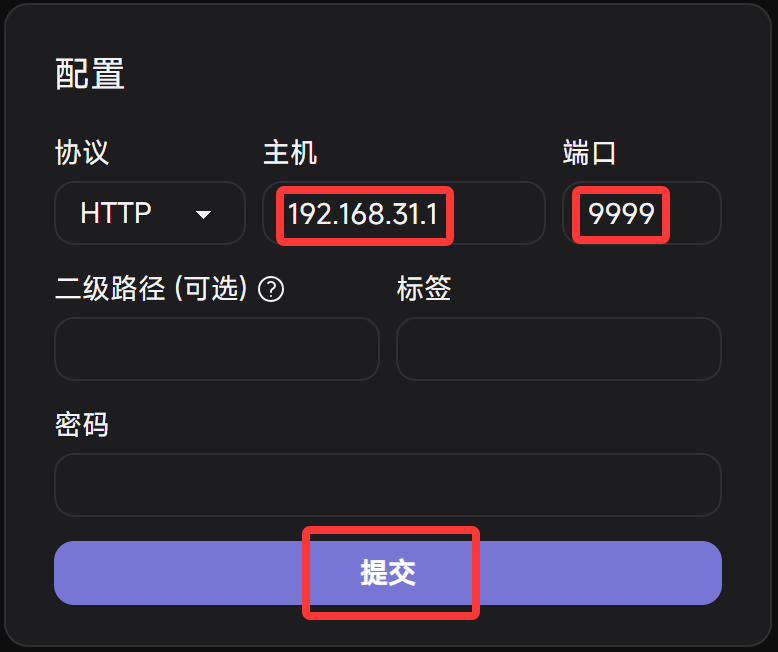
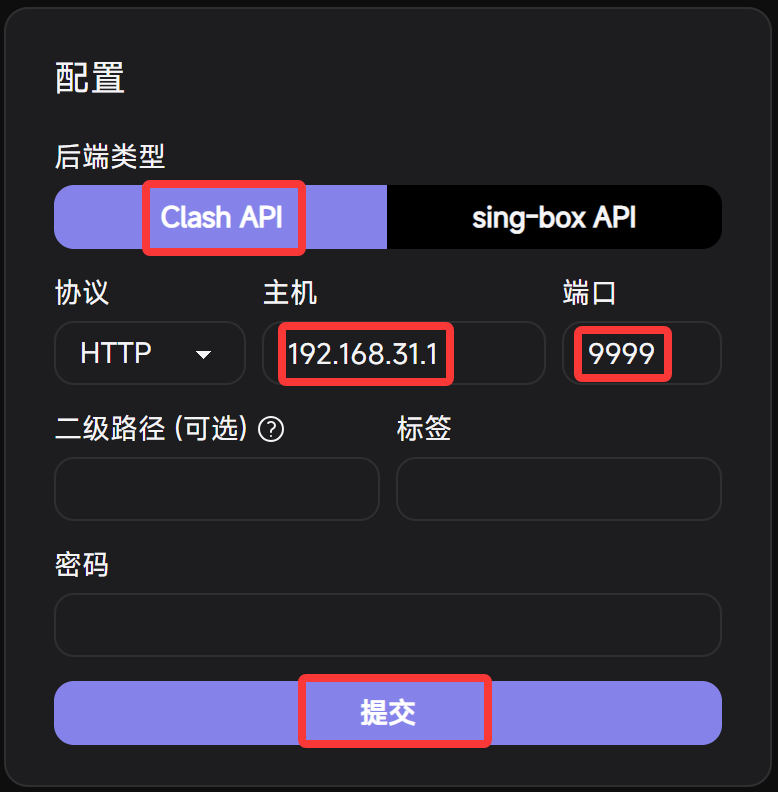
统一面板端口，方便管理

diff --git a/_posts/2024-08-22-share-shellcrashadguardhome-singboxr-ruleset.md b/_posts/2024-08-22-share-shellcrashadguardhome-singboxr-ruleset.md
@@ -367,7 +367,7 @@ sc
     {
       "type": "api",
       "listen": "::",
-      "listen_port": 9090,
+      "listen_port": 9999,
       "secret": "",
       "access_control_allow_private_network": true
     }
@@ -388,7 +388,7 @@ sc
       "store_fakeip": true
     },
     "clash_api": {
-      "external_controller": "0.0.0.0:9999",
+      "external_controller": "0.0.0.0:9090",
       "secret": "",
       "access_control_allow_private_network": true
     },
@@ -413,7 +413,8 @@ sc
 3. 进入 2) DNS 设置 → 9) 修改 DNS 服务器，设置如下：  
 <img src="/assets/img/dns/dns-null.png" alt="设置部分 2" width="60%" />
 
-4. 连接 SSH 后执行如下命令：
+4. 进入 2) 功能设置 → 6) 自定义端口及密钥 → 5) 修改面板访问端口，修改为 `9090`
+5. 连接 SSH 后执行如下命令：
 ```shell
 sed -i 's/"ip_accept_any": true,/"preferred_by": [ "hosts" ],/' "$CRASHDIR/starts/singbox_modify.sh"
 sed -i '/#生成experimental.json/i\
@@ -436,15 +437,7 @@ EOF
 sed -i 's/log dns ntp certificate experimental/log dns ntp certificate http_clients experimental/' "$CRASHDIR/starts/singbox_modify.sh"
 sed -i 's/log dns ntp certificate experimental/log dns ntp certificate http_clients experimental/' "$CRASHDIR/menus/override.sh"
 ```
-5. 访问在线 Dashboard 面板
-  - ① 打开 zashboard 在线面板地址 <http://board.zash.run.place>，在“[Clash API](https://sing-boxr.dustinwin.us.kg/zh/configuration/experimental/clash-api/)”标签的“主机”内输入 `192.168.31.1`，“端口”内输入 `9999`，点击“提交”即可访问 Dashboard
-  - ② 进入设置 → 后端设置，点击“+”图标，切换到“[sing-box API](https://sing-boxr.dustinwin.us.kg/zh/configuration/service/api/)”标签，“主机”内输入 `192.168.31.1`，点击“提交”
-  - ③ 通过切换后端配置可以分别使用 Clash API（支持“代理提供商”和“规则提供商”的更新）和 sing-box API Dashboard 面板
 
-> 推荐设置
-{: .prompt-tip }
-1. 进入 zashboard → 代理 → 代理设置 → 管理隐藏代理组，隐藏不必要显示的代理组
-2. 进入 zashboard → 设置 → 代理设置 → 外观 → 自定义图标，设置“组名”和“URL”，“URL”可参考 [icon 文件](https://github.com/DustinWin/ruleset_geodata/releases/tag/icons)
 ## 八、 安装 AdGuard Home
 连接 SSH 后执行如下命令：
 
@@ -471,3 +464,15 @@ EOF
 
 ## 八、 AdGuard Home 设置
 设置可参考《[全网最详细的解锁 SSH ShellCrash 搭载 sing-boxr 内核搭配 AdGuard Home 安装和配置教程/AdGuard Home 配置](https://proxy-tutorials.dustinwin.us.kg/posts/pin-shellcrashadguardhome-singboxr/#2-adguard-home-%E9%85%8D%E7%BD%AE)》
+
+## 九、 访问 Dashboard 面板
+1. 打开 zashboard 在线面板地址 <http://board.zash.run.place> 后，可直接在“[Clash API](https://sing-boxr.dustinwin.us.kg/zh/configuration/experimental/clash-api/)”标签里将“主机”修改为 `192.168.31.1`，点击“提交”即可访问 Dashboard
+2. 进入设置 → 后端设置，点击“+”图标，切换到“[sing-box API](https://sing-boxr.dustinwin.us.kg/zh/configuration/service/api/)”标签，将“主机”和“端口分别修改为 `192.168.31.1` 和 `9999` 并点击“提交”
+3. 通过切换后端配置可以分别使用 Clash API（支持“代理提供商”和“规则提供商”的更新）和 sing-box API Dashboard 面板
+4. 打开 <http://miwifi.com:3000> 即可访问 AdGuard Home 面板
+
+> 推荐设置
+{: .prompt-tip }
+1. 进入 zashboard → 代理 → 代理设置 → 管理隐藏代理组，隐藏不必要显示的代理组
+2. 进入 zashboard → 设置 → 代理设置 → 外观 → 自定义图标，设置“组名”和“URL”，“URL”可参考 [icon 文件](https://github.com/DustinWin/ruleset_geodata/releases/tag/icons)
+3. 进入 zashboard → 设置 → 后端设置 → 修改后端配置，可设置“标签 (可选)”来快速识别不同设备

diff --git a/_posts/2024-08-22-share-shellcrash-singboxr-ruleset.md b/_posts/2024-08-22-share-shellcrash-singboxr-ruleset.md
@@ -364,7 +364,7 @@ sc
     {
       "type": "api",
       "listen": "::",
-      "listen_port": 9090,
+      "listen_port": 9999,
       "secret": "",
       "access_control_allow_private_network": true
     }
@@ -386,7 +386,7 @@ sc
       "store_fakeip": true
     },
     "clash_api": {
-      "external_controller": "0.0.0.0:9999",
+      "external_controller": "0.0.0.0:9090",
       "secret": "",
       "access_control_allow_private_network": true
     },
@@ -405,7 +405,8 @@ sc
 2. 进入 ShellCrash 配置脚本 → 2) 功能设置 → 2) DNS 设置 → 9) 修改 DNS 服务器，设置如下：  
 <img src="/assets/img/dns/dns-null.png" alt="设置部分 2" width="60%" />
 
-3. 连接 SSH 后执行如下命令：
+3. 进入 2) 功能设置 → 6) 自定义端口及密钥 → 5) 修改面板访问端口，修改为 `9090`
+4. 连接 SSH 后执行如下命令：
 ```shell
 sed -i 's/"ip_accept_any": true,/"preferred_by": [ "hosts" ],/' "$CRASHDIR/starts/singbox_modify.sh"
 sed -i '/#生成experimental.json/i\
@@ -428,12 +429,14 @@ EOF
 sed -i 's/log dns ntp certificate experimental/log dns ntp certificate http_clients experimental/' "$CRASHDIR/starts/singbox_modify.sh"
 sed -i 's/log dns ntp certificate experimental/log dns ntp certificate http_clients experimental/' "$CRASHDIR/menus/override.sh"
 ```
-4. 访问在线 Dashboard 面板
-  - ① 打开 zashboard 在线面板地址 <http://board.zash.run.place>，在“[Clash API](https://sing-boxr.dustinwin.us.kg/zh/configuration/experimental/clash-api/)”标签的“主机”内输入 `192.168.31.1`，“端口”内输入 `9999`，点击“提交”即可访问 Dashboard
-  - ② 进入设置 → 后端设置，点击“+”图标，切换到“[sing-box API](https://sing-boxr.dustinwin.us.kg/zh/configuration/service/api/)”标签，“主机”内输入 `192.168.31.1`，点击“提交”
-  - ③ 通过切换后端配置可以分别使用 Clash API（支持“代理提供商”和“规则提供商”的更新）和 sing-box API Dashboard 面板
+
+## 八、 访问 Dashboard 面板
+1. 打开 zashboard 在线面板地址 <http://board.zash.run.place> 后，可直接在“[Clash API](https://sing-boxr.dustinwin.us.kg/zh/configuration/experimental/clash-api/)”标签里将“主机”修改为 `192.168.31.1`，点击“提交”即可访问 Dashboard
+2. 进入设置 → 后端设置，点击“+”图标，切换到“[sing-box API](https://sing-boxr.dustinwin.us.kg/zh/configuration/service/api/)”标签，将“主机”和“端口分别修改为 `192.168.31.1` 和 `9999` 并点击“提交”
+3. 通过切换后端配置可以分别使用 Clash API（支持“代理提供商”和“规则提供商”的更新）和 sing-box API Dashboard 面板
 
 > 推荐设置
 {: .prompt-tip }
 1. 进入 zashboard → 代理 → 代理设置 → 管理隐藏代理组，隐藏不必要显示的代理组
 2. 进入 zashboard → 设置 → 代理设置 → 外观 → 自定义图标，设置“组名”和“URL”，“URL”可参考 [icon 文件](https://github.com/DustinWin/ruleset_geodata/releases/tag/icons)
+3. 进入 zashboard → 设置 → 后端设置 → 修改后端配置，可设置“标签 (可选)”来快速识别不同设备

diff --git a/_posts/2024-08-22-share-windows-singboxr-ruleset.md b/_posts/2024-08-22-share-windows-singboxr-ruleset.md
@@ -263,7 +263,7 @@ tags: [sing-box, sing-boxr, Windows, ruleset, rule_set, 分享]
     {
       "type": "api",
       "listen": "::",
-      "listen_port": 9090,
+      "listen_port": 9999,
       "secret": "",
       "access_control_allow_private_network": true
     }
@@ -274,7 +274,7 @@ tags: [sing-box, sing-boxr, Windows, ruleset, rule_set, 分享]
       "store_fakeip": true
     },
     "clash_api": {
-      "external_controller": "0.0.0.0:9999",
+      "external_controller": "0.0.0.0:9090",
       "secret": "",
       "access_control_allow_private_network": true
     },
@@ -633,11 +633,14 @@ Windows Registry Editor Version 5.00
   - ➌ 若想开机启动 sing-boxr，可搜索“Windows 添加任务计划”教程自行添加
 
 ## 四、 访问 Dashboard 面板
-1. 打开 zashboard 在线面板地址 <http://board.zash.run.place>，在“[Clash API](https://sing-boxr.dustinwin.us.kg/zh/configuration/experimental/clash-api/)”标签的“端口”内输入 `9999`，点击“提交”即可访问 Dashboard
-2. 进入设置 → 后端设置，点击“+”图标，切换到“[sing-box API](https://sing-boxr.dustinwin.us.kg/zh/configuration/service/api/)”标签，直接点击“提交”
+1. 打开 zashboard 在线面板地址 <http://board.zash.run.place> 可直接通过 [Clash API](https://sing-boxr.dustinwin.us.kg/zh/configuration/experimental/clash-api/) 的方式访问 Dashboard 面板
+2. 进入设置 → 后端设置，点击“+”图标，切换到“[sing-box API](https://sing-boxr.dustinwin.us.kg/zh/configuration/service/api/)”标签，将“端口”修改为 `9999` 并点击“提交”  
+<img src="/assets/img/share/172-9090-dashboard-singbox-pc.png" alt="面板设置" width="60%" />
+
 3. 通过切换后端配置可以分别使用 Clash API（支持“代理提供商”和“规则提供商”的更新）和 sing-box API Dashboard 面板
 
 > 推荐设置
 {: .prompt-tip }
 1. 进入 zashboard → 代理 → 代理设置 → 管理隐藏代理组，隐藏不必要显示的代理组
-2. 进入 zashboard → 设置 → 代理设置 → 外观 → 自定义图标，设置“组名”和“URL”，“URL”可参考 [icon 文件](https://github.com/DustinWin/ruleset_geodata/releases/tag/icons)
+2. 进入 zashboard → 设置 → 图标，设置“自定义图标”，可参考 [icon 文件](https://github.com/DustinWin/ruleset_geodata/releases/tag/icons)
+3. 进入 zashboard → 设置 → 后端设置 → 修改后端配置，可设置“标签 (可选)”来快速识别不同设备

diff --git a/_posts/2024-08-22-toolsettings-shellcrash-singboxr-ruleset.md b/_posts/2024-08-22-toolsettings-shellcrash-singboxr-ruleset.md
@@ -55,25 +55,24 @@ curl -sS -o /tmp/CrashCore.upx -L https://ghfast.top/https://github.com/DustinWi
   - ③ 进入 6) 配置文件管理 → 1) sing-boxr，选择“e) 在线获取此配置文件”，启动服务即可
 
 11. 访问 Dashboard 面板
-  - ① 首次打开 <http://192.168.31.1:9090/dashboard/> 需要添加“主机”和“端口”，在“[Clash API](https://sing-boxr.dustinwin.us.kg/zh/configuration/experimental/clash-api/)”标签内分别填入 `192.168.31.1` 和 `9999`，点击“提交”即可访问 Dashboard 面板  
+  - ① 打开 <http://192.168.31.1:9090/dashboard/> 后，直接在“[Clash API](https://sing-boxr.dustinwin.us.kg/zh/configuration/experimental/clash-api/)”标签里将“主机”和“端口”分别修改为 `192.168.31.1` 和 `9999`，点击“提交”即可访问 Dashboard 面板  
   <img src="/assets/img/tools/192-9999-dashboard-singbox_1.png" alt="设置部分 2" width="60%" />
 
-  - ② 进入Dashboard 面板 → 设置 → 后端设置，点击“+”图标，切换到“[sing-box API](https://sing-boxr.dustinwin.us.kg/zh/configuration/service/api/)”标签，“主机”内输入 `192.168.31.1`，点击“提交”  
+  - ② 进入 Dashboard 面板 → 设置 → 后端设置，点击“+”图标，切换到“[sing-box API](https://sing-boxr.dustinwin.us.kg/zh/configuration/service/api/)”标签，将“主机”修改为 `192.168.31.1` 并点击“提交”  
   <img src="/assets/img/tools/192-9999-dashboard-singbox_2.png" alt="设置部分 3" width="60%" />
 
   - ③ 通过切换后端配置可以分别使用 Clash API（支持“代理提供商”和“规则提供商”的更新）和 sing-box API Dashboard 面板
   - ④ 无法通过手动点击“升级面板”来更新 zashboard（默认每日自动更新）
   - ⑤ 进入 Dashboard 面板 → 代理 → 代理提供者，点击“转圈”图标，可手动更新节点
 
-## 四、 在线 Dashboard 面板
-在线 Dashboard 面板 [zashboard](https://github.com/Zephyruso/zashboard)，网址：<http://board.zash.run.place>
-1. 若使用基于 [Chromium 项目](https://www.chromium.org/Home/)开发的浏览器无法访问 Dashboard 在线面板时，以 [Chrome 浏览器](https://www.google.com/chrome/)为例，需要设置该网址域名“允许显示不安全内容”，进入设置 → 隐私和安全 → 网站设置 → 更多内容设置 → 不安全内容（或者直接在地址栏打开 `chrome://settings/content/insecureContent` 进行设置），在“允许显示不安全内容”内添加网址域名 `board.zash.run.place`  
+## 四、 在线 Dashboard 面板（可选）
+1. 若使用基于 [Chromium 项目](https://www.chromium.org/Home/)开发的浏览器无法访问在线 Dashboard 面板时，以 [Chrome 浏览器](https://www.google.com/chrome/)为例，需要设置该网址域名“允许显示不安全内容”，进入设置 → 隐私和安全 → 网站设置 → 更多内容设置 → 不安全内容（或者直接在地址栏打开 `chrome://settings/content/insecureContent` 进行设置），在“允许显示不安全内容”内添加网址域名 `board.zash.run.place`  
 <img src="/assets/img/tools/chrome-setting-dashboard.png" alt="在线 Dashboard 面板 1" width="60%" />
 
-2. 首次进入 <http://board.zash.run.place> 需要添加“主机”和“端口”，在“Clash API”标签内分别填入 `192.168.31.1` 和 `9999`，点击“提交”即可访问 Dashboard 面板  
+2. 打开 [zashboard](https://github.com/Zephyruso/zashboard) 在线面板地址 <http://board.zash.run.place> 后，直接在“Clash API”标签里将“主机”和“端口”分别修改为 `192.168.31.1` 和 `9999`，点击“提交”即可访问 Dashboard 面板  
 <img src="/assets/img/tools/192-9999-dashboard-singbox_1.png" alt="在线 Dashboard 面板 2" width="60%" />
 
-3. 进入 Dashboard 面板 → 设置 → 后端设置，点击“+”图标，切换到“sing-box API”标签，“主机”内输入 `192.168.31.1`，点击“提交”  
+3. 进入 Dashboard 面板 → 设置 → 后端设置，点击“+”图标，切换到“sing-box API”标签，将“主机”修改为 `192.168.31.1` 并点击“提交”  
 <img src="/assets/img/tools/192-9999-dashboard-singbox_2.png" alt="在线 Dashboard 面板 3" width="60%" />
 
 4. 通过切换后端配置可以分别使用 Clash API（支持“代理提供商”和“规则提供商”的更新）和 sing-box API Dashboard 面板

diff --git a/_posts/2024-08-21-share-android-singboxr-ruleset.md b/_posts/2024-08-21-share-android-singboxr-ruleset.md
@@ -264,7 +264,7 @@ tags: [sing-box, sing-boxr, Android, ruleset, rule_set, 分享]
     {
       "type": "api",
       "listen": "::",
-      "listen_port": 9090,
+      "listen_port": 9999,
       "secret": "",
       "access_control_allow_private_network": true
     }
@@ -275,7 +275,7 @@ tags: [sing-box, sing-boxr, Android, ruleset, rule_set, 分享]
       "store_fakeip": true
     },
     "clash_api": {
-      "external_controller": "0.0.0.0:9999",
+      "external_controller": "0.0.0.0:9090",
       "secret": "",
       "access_control_allow_private_network": true
     },
@@ -377,11 +377,14 @@ tags: [sing-box, sing-boxr, Android, ruleset, rule_set, 分享]
 - 注：首次启用可能会报错，重试几次即可
 
 ## 三、 访问 Dashboard 面板
-1. 打开 zashboard 在线面板地址 <http://board.zash.run.place>，在“[Clash API](https://sing-boxr.dustinwin.us.kg/zh/configuration/experimental/clash-api/)”标签的“端口”内输入 `9999`，点击“提交”即可访问 Dashboard 面板
-2. 进入设置 → 后端设置，点击“+”图标，切换到“[sing-box API](https://sing-boxr.dustinwin.us.kg/zh/configuration/service/api/)”标签，直接点击“提交”
+1. 打开 zashboard 在线面板地址 <http://board.zash.run.place> 可直接通过 [Clash API](https://sing-boxr.dustinwin.us.kg/zh/configuration/experimental/clash-api/) 的方式访问 Dashboard 面板
+2. 进入设置 → 后端设置，点击“+”图标，切换到“[sing-box API](https://sing-boxr.dustinwin.us.kg/zh/configuration/service/api/)”标签，将“端口”修改为 `9999` 并点击“提交”  
+<img src="/assets/img/share/[phone redacted]-dashboard-singbox-phone.png" alt="面板设置" width="60%" />
+
 3. 通过切换后端配置可以分别使用 Clash API（支持“代理提供商”和“规则提供商”的更新）和 sing-box API Dashboard 面板
 
 > 推荐设置
 {: .prompt-tip }
 1. 进入 zashboard → 代理 → 代理设置 → 管理隐藏代理组，隐藏不必要显示的代理组
 2. 进入 zashboard → 设置 → 图标，设置“自定义图标”，可参考 [icon 文件](https://github.com/DustinWin/ruleset_geodata/releases/tag/icons)
+3. 进入 zashboard → 设置 → 后端设置 → 修改后端配置，可设置“标签 (可选)”来快速识别不同设备

diff --git a/_posts/2024-08-21-share-shellcrashadguardhome-mihomo-ruleset.md b/_posts/2024-08-21-share-shellcrashadguardhome-mihomo-ruleset.md
@@ -384,7 +384,7 @@ dns:
 3. 进入 2) DNS 设置 → 9) 修改 DNS 服务器，设置如下：  
 <img src="/assets/img/dns/dns-null.png" alt="ShellCrash 设置 2" width="60%" />
 
-4. 打开 [zashboard](https://github.com/Zephyruso/zashboard) 在线面板地址 <http://board.zash.run.place> 后，“主机”输入 `192.168.31.1`，“端口”输入 `9999`，点击“提交”即可访问 Dashboard 面板
+3. 进入 2) 功能设置 → 6) 自定义端口及密钥 → 5) 修改面板访问端口，修改为 `9090`
 
 ## 六、 安装 AdGuard Home
 连接 SSH 后执行如下命令：
@@ -412,3 +412,11 @@ EOF
 
 ## 七、 AdGuard Home 设置
 设置可参考《[全网最详细的解锁 SSH ShellCrash 搭载 mihomo 内核搭配 AdGuard Home 安装和配置教程/AdGuard Home 配置](https://proxy-tutorials.dustinwin.us.kg/posts/pin-shellcrashadguardhome-mihomo/#2-adguard-home-%E9%85%8D%E7%BD%AE)》
+
+## 八、 访问面板
+1. 打开 [zashboard](https://github.com/Zephyruso/zashboard) 在线面板地址 <http://board.zash.run.place> 后，直接在 [Clash API](https://sing-boxr.dustinwin.us.kg/zh/configuration/experimental/clash-api/) 标签里将“主机”修改为 `192.168.31.1`，点击“提交”即可访问 Dashboard 面板
+2. 打开 <http://miwifi.com:3000> 即可访问 AdGuard Home 面板
+
+> 推荐设置
+{: .prompt-tip }
+进入 zashboard → 设置 → 后端设置 → 修改后端配置，可设置“标签 (可选)”来快速识别不同设备

diff --git a/_posts/2024-08-21-share-shellcrash-mihomo-geodata.md b/_posts/2024-08-21-share-shellcrash-mihomo-geodata.md
@@ -263,4 +263,11 @@ dns:
 2. 进入 ShellCrash 配置脚本 → 2) 功能设置 → 2) DNS 设置 → 9) 修改 DNS 服务器，设置如下：  
 <img src="/assets/img/dns/dns-null.png" alt="设置部分 2" width="60%" />
 
-3. 打开 [zashboard](https://github.com/Zephyruso/zashboard) 在线面板地址 <http://board.zash.run.place> 后，“主机”输入 `192.168.31.1`，“端口”输入 `9999`，点击“提交”即可访问 Dashboard 面板
+3. 进入 2) 功能设置 → 6) 自定义端口及密钥 → 5) 修改面板访问端口，修改为 `9090`
+
+## 七、 访问 Dashboard 面板
+打开 [zashboard](https://github.com/Zephyruso/zashboard) 在线面板地址 <http://board.zash.run.place> 后，直接在 [Clash API](https://sing-boxr.dustinwin.us.kg/zh/configuration/experimental/clash-api/) 标签里将“主机”修改为 `192.168.31.1`，点击“提交”即可访问 Dashboard 面板
+
+> 推荐设置
+{: .prompt-tip }
+进入 zashboard → 设置 → 后端设置 → 修改后端配置，可设置“标签 (可选)”来快速识别不同设备

diff --git a/_posts/2024-08-21-toolsettings-shellcrash-mihomo-geodata.md b/_posts/2024-08-21-toolsettings-shellcrash-mihomo-geodata.md
@@ -64,15 +64,14 @@ curl -sS -o $CRASHDIR/Country.mmdb -L https://cdn.jsdelivr.net/gh/DustinWin/rule
   - ③ 进入 6) 配置文件管理 → 1) mihomo，选择“e) 在线获取此配置文件”，启动服务即可
 
 11. 访问 Dashboard 面板
-  - ① 首次打开 <http://192.168.31.1:9999/ui/> 需要添加“主机”和“端口”，分别填入 `192.168.31.1` 和 `9999` 并点击“提交”即可  
+  - ① 打开 <http://192.168.31.1:9999/ui/> 后，直接在“[Clash API](https://sing-boxr.dustinwin.us.kg/zh/configuration/experimental/clash-api/)”标签里将“主机”和“端口”分别修改为 `192.168.31.1` 和 `9999`，点击“提交”即可访问 Dashboard 面板  
   <img src="/assets/img/tools/192-9999-dashboard.png" alt="设置部分 2" width="60%" />
 
   - ② 进入 Dashboard 面板 → 代理 → 代理提供者，点击“转圈”图标，可手动更新节点
 
-## 五、 在线 Dashboard 面板
-在线 Dashboard 面板 [zashboard](https://github.com/Zephyruso/zashboard)，网址：<http://board.zash.run.place>
-1. 若使用基于 [Chromium 项目](https://www.chromium.org/Home/)开发的浏览器无法访问 Dashboard 在线面板时，以 [Chrome 浏览器](https://www.google.com/chrome/)为例，需要设置该网址域名“允许显示不安全内容”，进入设置 → 隐私和安全 → 网站设置 → 更多内容设置 → 不安全内容（或者直接在地址栏打开 `chrome://settings/content/insecureContent` 进行设置），在“允许显示不安全内容”内添加网址域名 `board.zash.run.place`  
+## 五、 在线 Dashboard 面板（可选）
+1. 若使用基于 [Chromium 项目](https://www.chromium.org/Home/)开发的浏览器无法访问在线 Dashboard 面板时，以 [Chrome 浏览器](https://www.google.com/chrome/)为例，需要设置该网址域名“允许显示不安全内容”，进入设置 → 隐私和安全 → 网站设置 → 更多内容设置 → 不安全内容（或者直接在地址栏打开 `chrome://settings/content/insecureContent` 进行设置），在“允许显示不安全内容”内添加网址域名 `board.zash.run.place`  
 <img src="/assets/img/tools/chrome-setting-dashboard.png" alt="在线 Dashboard 面板 1" width="60%" />
 
-2. 首次进入 <http://board.zash.run.place> 需要添加“主机”和“端口”，分别填入 `192.168.31.1` 和 `9999` 并点击“提交”即可访问 Dashboard 面板  
+1. 打开 [zashboard](https://github.com/Zephyruso/zashboard) 在线面板地址 <http://board.zash.run.place> 后，直接在“Clash API”标签里将“主机”和“端口”分别修改为 `192.168.31.1` 和 `9999`，点击“提交”即可访问 Dashboard 面板  
 <img src="/assets/img/tools/192-9999-dashboard.png" alt="在线 Dashboard 面板 2" width="60%" />

diff --git a/_posts/2024-08-21-toolsettings-shellcrash-mihomo-ruleset.md b/_posts/2024-08-21-toolsettings-shellcrash-mihomo-ruleset.md
@@ -55,15 +55,14 @@ curl -sS -o /tmp/CrashCore.upx -L https://ghfast.top/https://github.com/DustinWi
   - ③ 进入 6) 配置文件管理 → 1) mihomo，选择“e) 在线获取此配置文件”，启动服务即可
 
 11. 访问 Dashboard 面板
-  - ① 首次打开 <http://192.168.31.1:9999/ui/> 需要添加“主机”和“端口”，分别填入 `192.168.31.1` 和 `9999` 并点击“提交”即可  
+  - ① 打开 <http://192.168.31.1:9999/ui/> 后，直接在“[Clash API](https://sing-boxr.dustinwin.us.kg/zh/configuration/experimental/clash-api/)”标签里将“主机”和“端口”分别修改为 `192.168.31.1` 和 `9999`，点击“提交”即可访问 Dashboard 面板  
   <img src="/assets/img/tools/192-9999-dashboard.png" alt="设置部分 2" width="60%" />
 
   - ② 进入 Dashboard 面板 → 代理 → 代理提供者，点击“转圈”图标，可手动更新节点
 
-## 四、 在线 Dashboard 面板
-在线 Dashboard 面板 [zashboard](https://github.com/Zephyruso/zashboard)，网址：<http://board.zash.run.place>
-1. 若使用基于 [Chromium 项目](https://www.chromium.org/Home/)开发的浏览器无法访问 Dashboard 在线面板时，以 [Chrome 浏览器](https://www.google.com/chrome/)为例，需要设置该网址域名“允许显示不安全内容”，进入设置 → 隐私和安全 → 网站设置 → 更多内容设置 → 不安全内容（或者直接在地址栏打开 `chrome://settings/content/insecureContent` 进行设置），在“允许显示不安全内容”内添加网址域名 `board.zash.run.place`  
+## 四、 在线 Dashboard 面板（可选）
+1. 若使用基于 [Chromium 项目](https://www.chromium.org/Home/)开发的浏览器无法访问在线 Dashboard 面板时，以 [Chrome 浏览器](https://www.google.com/chrome/)为例，需要设置该网址域名“允许显示不安全内容”，进入设置 → 隐私和安全 → 网站设置 → 更多内容设置 → 不安全内容（或者直接在地址栏打开 `chrome://settings/content/insecureContent` 进行设置），在“允许显示不安全内容”内添加网址域名 `board.zash.run.place`  
 <img src="/assets/img/tools/chrome-setting-dashboard.png" alt="在线 Dashboard 面板 1" width="60%" />
 
-2. 首次进入 <http://board.zash.run.place> 需要添加“主机”和“端口”，分别填入 `192.168.31.1` 和 `9999` 并点击“提交”即可访问 Dashboard 面板  
+1. 打开 [zashboard](https://github.com/Zephyruso/zashboard) 在线面板地址 <http://board.zash.run.place> 后，直接在“Clash API”标签里将“主机”和“端口”分别修改为 `192.168.31.1` 和 `9999`，点击“提交”即可访问 Dashboard 面板  
 <img src="/assets/img/tools/192-9999-dashboard.png" alt="在线 Dashboard 面板 2" width="60%" />

diff --git a/_posts/2024-08-21-share-shellcrash-mihomo-ruleset.md b/_posts/2024-08-21-share-shellcrash-mihomo-ruleset.md
@@ -370,4 +370,10 @@ dns:
 2. 进入 ShellCrash 配置脚本 → 2) 功能设置 → 2) DNS 设置 → 9) 修改 DNS 服务器，设置如下：  
 <img src="/assets/img/dns/dns-null.png" alt="设置部分 2" width="60%" />
 
-3. 打开 [zashboard](https://github.com/Zephyruso/zashboard) 在线面板地址 <http://board.zash.run.place> 后，“主机”输入 `192.168.31.1`，“端口”输入 `9999`，点击“提交”即可访问 Dashboard 面板
+3. 进入 2) 功能设置 → 6) 自定义端口及密钥 → 5) 修改面板访问端口，修改为 `9090`
+## 六、 访问 Dashboard 面板
+打开 [zashboard](https://github.com/Zephyruso/zashboard) 在线面板地址 <http://board.zash.run.place> 后，直接在 [Clash API](https://sing-boxr.dustinwin.us.kg/zh/configuration/experimental/clash-api/) 标签里将“主机”修改为 `192.168.31.1`，点击“提交”即可访问 Dashboard 面板
+
+> 推荐设置
+{: .prompt-tip }
+进入 zashboard → 设置 → 后端设置 → 修改后端配置，可设置“标签 (可选)”来快速识别不同设备

diff --git a/_posts/2024-12-04-share-windows-mihomo-ruleset.md b/_posts/2024-12-04-share-windows-mihomo-ruleset.md
@@ -45,7 +45,7 @@ allow-lan: true
 mixed-port: 7890
 unified-delay: true
 tcp-concurrent: true
-external-controller: 0.0.0.0:9999
+external-controller: 0.0.0.0:9090
 profile: {store-selected: true, store-fake-ip: true}
 
 sniffer:
@@ -615,4 +615,8 @@ Windows Registry Editor Version 5.00
   - ➌ 若想开机启动 mihomo，可搜索“Windows 添加任务计划”教程自行添加
 
 ## 四、 访问 Dashboard 面板
-打开 [zashboard](https://github.com/Zephyruso/zashboard) 在线面板地址 <http://board.zash.run.place> 后，“主机”输入 `192.168.31.1`，“端口”输入 `9999`，点击“提交”即可访问 Dashboard 面板
+打开 [zashboard](https://github.com/Zephyruso/zashboard) 在线面板地址 <http://board.zash.run.place> 可直接访问 Dashboard 面板
+
+> 推荐设置
+{: .prompt-tip }
+进入 zashboard → 设置 → 后端设置 → 修改后端配置，可设置“标签 (可选)”来快速识别不同设备

diff --git a/_posts/2024-08-21-pin-shellcrashadguardhome-mihomo.md b/_posts/2024-08-21-pin-shellcrashadguardhome-mihomo.md
@@ -289,7 +289,7 @@ echo -e '12345678\n12345678' | passwd root
 - ④ 进入主菜单 → 4 启动设置，启用“1) 开机自启动”（若重启路由器后服务没有自动运行，可进入 3) 设置自启延时，设置为“30”秒，然后在《[六、 1. ⑥](https://proxy-tutorials.dustinwin.us.kg//posts/pin-shellcrashadguardhome-mihomo/#1-adguard-home-%E5%AE%89%E8%A3%85)》，将 `sleep 10s` 改为 `sleep 40s`）
 - ⑤ 进入主菜单 → 5) 自动任务 → 1) 添加自动任务，输入对应的数字并回车后可设置执行条件
 - ⑥ 进入主菜单 → 8) 工具与优化，选择“6) 小米设备软固化 SSH”（无需输入需要还原的 SSH 密码）
-- ⑦ 进入主菜单 → 9) 更新与支持 → 4) 安装/更新本地 Dashboard 面板，选择“1) 安装 zashboard 面板”  
+- ⑦ 进入主菜单 → 9) 更新与支持 → 4) 安装/更新本地 Dashboard 面板，推荐安装“1) 安装 zashboard 面板”  
   注：
     - ➊ 启动服务后，面板 Dashboard 访问链接为：<http://192.168.31.1:9999/ui/>
     - ➋ 初次打开需要添加“主机”和“端口”，分别填入 `192.168.31.1` 和 `9999` 并点击“添加”即可访问 Dashboard 面板